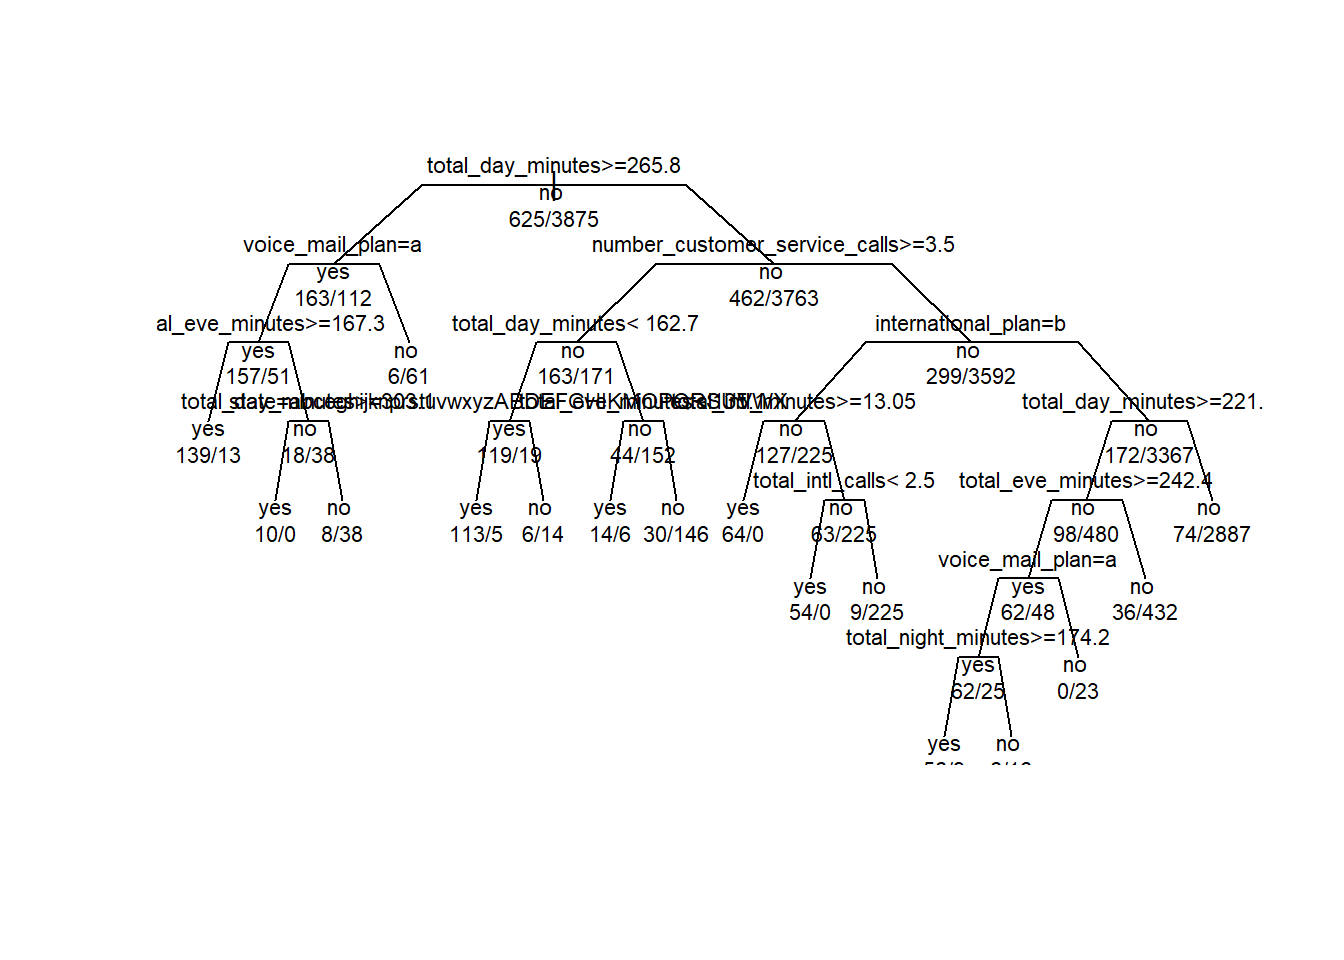
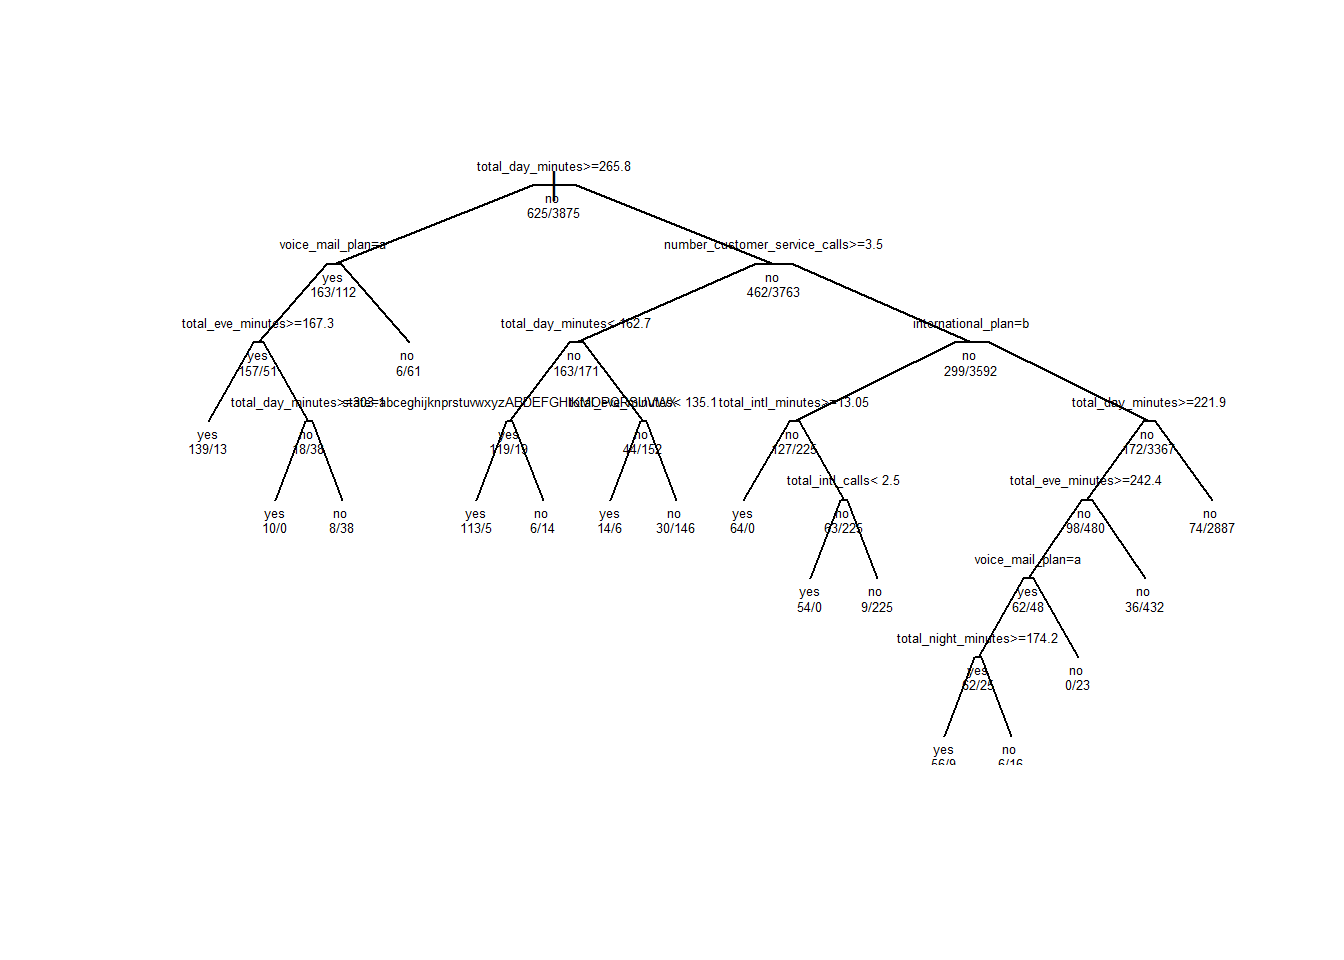
árboles de decisión iii a medias

Changed region(s): [[0.125, 0.25, 0.9375, 0.8125], [0.4375, 0.25, 0.7188, 0.3125], [0.3125, 0.1562, 0.5, 0.25]]

diff --git a/content/post/2015-12-02-arboles-de-decision-iii/index.es.html b/content/post/2015-12-02-arboles-de-decision-iii/index.es.html
@@ -103,10 +103,10 @@ rpart_churn_model &lt;- rpart(formula = churn ~ .,
 <p>Todo esto es más fácil verlo gráficamente:</p>
 <pre class="r"><code>plot(rpart_churn_model, uniform = TRUE, branch = 0.6, margin = 0.1)
 text(rpart_churn_model, all = TRUE, use.n = TRUE, cex = .5)</code></pre>
-<p><img src="{{< blogdown/postref >}}index.es_files/figure-html/unnamed-chunk-6-1.png" width="672" /></p>
-<pre class="r"><code>plot(rpart_churn_model, uniform = TRUE, branch = 0.6, margin = 0.01)
-text(rpart_churn_model, all = TRUE, use.n = TRUE, cex = .7)</code></pre>
-<p><img src="{{< blogdown/postref >}}index.es_files/figure-html/unnamed-chunk-7-1.png" width="672" /></p>
+<p><img src="{{< blogdown/postref >}}index.es_files/figure-html/unnamed-chunk-6-1.png" width="672" style="display: block; margin: auto;" /></p>
+<pre class="r"><code>plot(rpart_churn_model, uniform = TRUE, branch = 0.1, margin = 0.01)
+text(rpart_churn_model, all = TRUE, use.n = TRUE, cex = .4)</code></pre>
+<p><img src="{{< blogdown/postref >}}index.es_files/figure-html/unnamed-chunk-7-1.png" width="672" style="display: block; margin: auto;" /></p>
 <p><a href="http://es100x100datascience.com/wp-content/uploads/2015/12/Tree.png"><img src="http://es100x100datascience.com/wp-content/uploads/2015/12/Tree-1024x448.png" alt="Tree" /></a></p>
 <p>Para ver los parámetros de complejidad del modelo:</p>
 <pre class="r"><code>printcp(x= rpart_churn_model)</code></pre>
@@ -136,6 +136,8 @@ text(rpart_churn_model, all = TRUE, use.n = TRUE, cex = .7)</code></pre>
 ## 8 0.010000     15    0.3328 0.5104 0.027545</code></pre>
 <p>Utilizaremos los parámetros de complejidad (<code>CP</code>) como una penalización para controlar el tamaño del árbol. En resumen, cuanto mayor es el parámetro de complejidad, menos decisiones contiene el árbol (<code>nsplit</code>). El valor <code>rel error</code> representa la desviación media del árbol al que se refiera dividida entre la desviación media del árbol nulo (<code>nsplit = 0</code>). El valor <code>xerror</code> es el valor medio estimado mediante un procedimiento de <em>cross validation</em> que ya veremos. <code>xstd</code> es el error estándar del error relativo.</p>
 <p>La información sobre el <code>CP</code>se puede visualizar:</p>
+<pre class="r"><code>rpart::plotcp(rpart_churn_model, main = &quot;size of tree&quot;, cex.main = .7)</code></pre>
+<p><img src="{{< blogdown/postref >}}index.es_files/figure-html/unnamed-chunk-9-1.png" width="672" style="display: block; margin: auto;" /></p>
 <p><a href="http://es100x100datascience.com/wp-content/uploads/2015/12/CP-plot.png"><img src="http://es100x100datascience.com/wp-content/uploads/2015/12/CP-plot.png" alt="CP plot" /></a></p>
 <p>El eje x inferior representa el <code>CP</code>, el eje y es el error relativo y el eje x superior es el tamaño del árbol.</p>
 </div>
@@ -156,19 +158,20 @@ text(rpart_churn_model, all = TRUE, use.n = TRUE, cex = .7)</code></pre>
 <p>Esto se ve mejor con la función <code>confusionMatrix</code> del paquete <code>caret</code>:</p>
 <pre class="r"><code>library(caret)
 
-confusionMatrix(data = rpart_predictions, 
-                reference = churnTest$churn)$table</code></pre>
+cm &lt;- confusionMatrix(data = rpart_predictions, 
+                      reference = churnTest$churn)
+cm$table</code></pre>
 <pre><code>##           Reference
 ## Prediction yes  no
 ##        yes  52   4
 ##        no   30 414</code></pre>
 <p>Al número total de aciertos lo llamamos <strong>Accuracy</strong> o <strong>exactitud</strong>:</p>
 <p><span class="math display">\[
-Accuracy = \\frac{41+427}{41+25+7+427} = 0.936\
+Accuracy = \frac{52 + 414}{52 + 4 + 414 + 30} = 0.932
 \]</span></p>
 <p>El porcentaje de <strong>falsos positivos</strong> es:</p>
 <p><span class="math display">\[
-FP = \\frac{25}{41+25} = 0.3787879\
+FP = \frac{4}{52 + 4} = 0.3787879
 \]</span></p>
 <p>Y el de <strong>falsos negativos</strong>:</p>
 <p><span class="math display">\[
@@ -215,14 +218,14 @@ Specificity = 1 - FN = \\frac{427}{427+7} = 0.983871\
 <p>Visualizamos el nuevo árbol:</p>
 <pre class="r"><code>plot(rpart_churn_prunned_model, uniform = TRUE, branch = 0.6, margin = 0.01)
     text(rpart_churn_prunned_model, all = TRUE, use.n = TRUE, cex = .7)</code></pre>
-<p><img src="{{< blogdown/postref >}}index.es_files/figure-html/unnamed-chunk-16-1.png" width="672" /></p>
+<p><img src="{{< blogdown/postref >}}index.es_files/figure-html/unnamed-chunk-18-1.png" width="672" style="display: block; margin: auto;" /></p>
 <p><a href="http://es100x100datascience.com/wp-content/uploads/2015/12/Tree-2.png"><img src="http://es100x100datascience.com/wp-content/uploads/2015/12/Tree-2-1024x448.png" alt="Tree 2" /></a></p>
 <p>Y comprobamos su rendimiento:</p>
 <pre class="r"><code>rpart_prunned_predictions &lt;- predict(object = rpart_churn_prunned_model,
-                                 newdata = churnTest, 
-                                 type = &quot;class&quot;)
-    confusionMatrix(data = rpart_prunned_predictions, 
-                    reference = churnTest$churn)$table</code></pre>
+                                     newdata = churnTest, 
+                                     type = &quot;class&quot;)
+confusionMatrix(data = rpart_prunned_predictions, 
+                reference = churnTest$churn)$table</code></pre>
 <pre><code>##           Reference
 ## Prediction yes  no
 ##        yes  55   6
